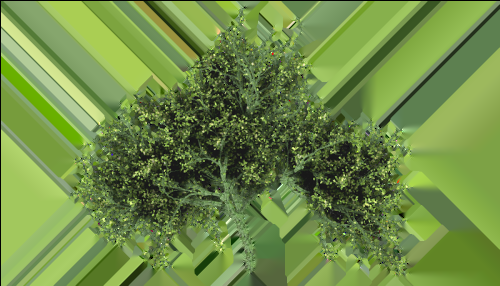
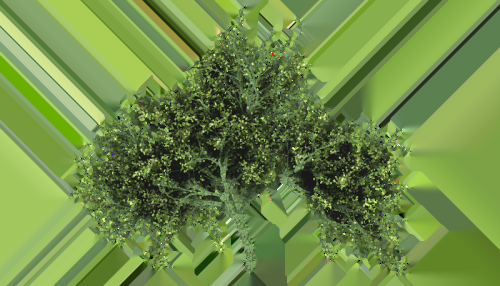
Fixed off-by-one error.

Changed region(s): [[0.0, 0.0, 1.0, 0.028]]

diff --git a/src/alpha-bleeding.cpp b/src/alpha-bleeding.cpp
@@ -86,7 +86,7 @@ void alpha_bleeding(unsigned char *image, int width, int height)
 				int s = offsets[k][0];
 				int t = offsets[k][1];
 
-				if (x + s > 0 && x + s < width && y + t > 0 && y + t < height)
+				if (x + s >= 0 && x + s < width && y + t >= 0 && y + t < height)
 				{
 					size_t index = j + 4 * (s + t * width);
 
@@ -132,7 +132,7 @@ void alpha_bleeding(unsigned char *image, int width, int height)
 				int s = offsets[k][0];
 				int t = offsets[k][1];
 
-				if (x + s > 0 && x + s < width && y + t > 0 && y + t < height)
+				if (x + s >= 0 && x + s < width && y + t >= 0 && y + t < height)
 				{
 					t *= width;
 
@@ -162,7 +162,7 @@ void alpha_bleeding(unsigned char *image, int width, int height)
 					int s = offsets[k][0];
 					int t = offsets[k][1];
 
-					if (x + s > 0 && x + s < width && y + t > 0 && y + t < height)
+					if (x + s >= 0 && x + s < width && y + t >= 0 && y + t < height)
 					{
 						size_t index = j + s + t * width;
 
